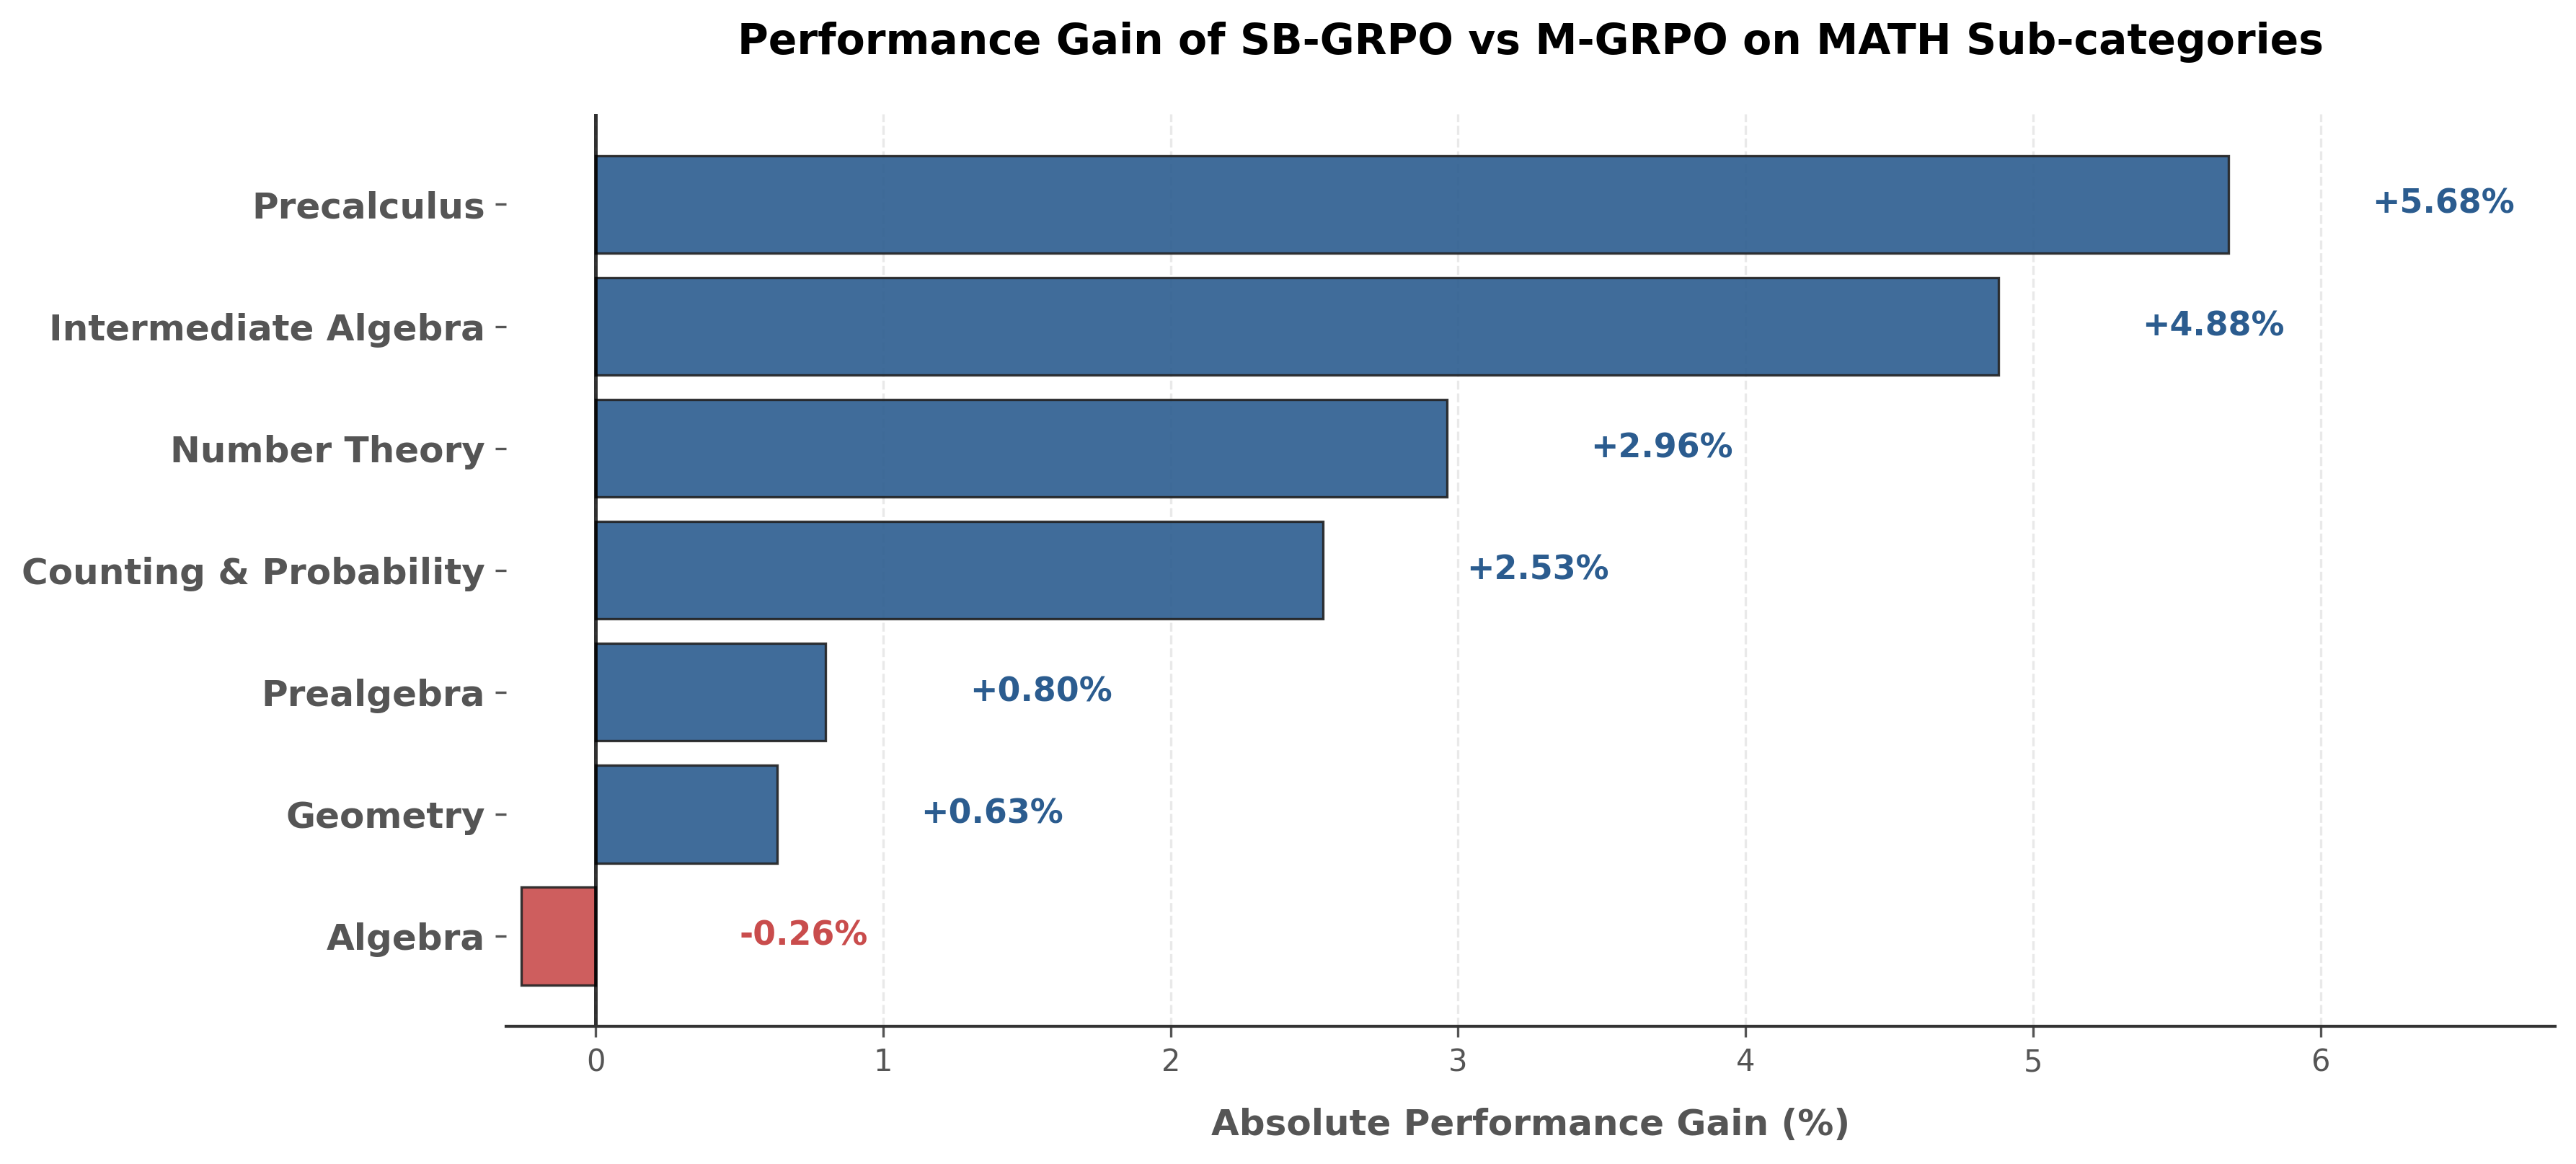
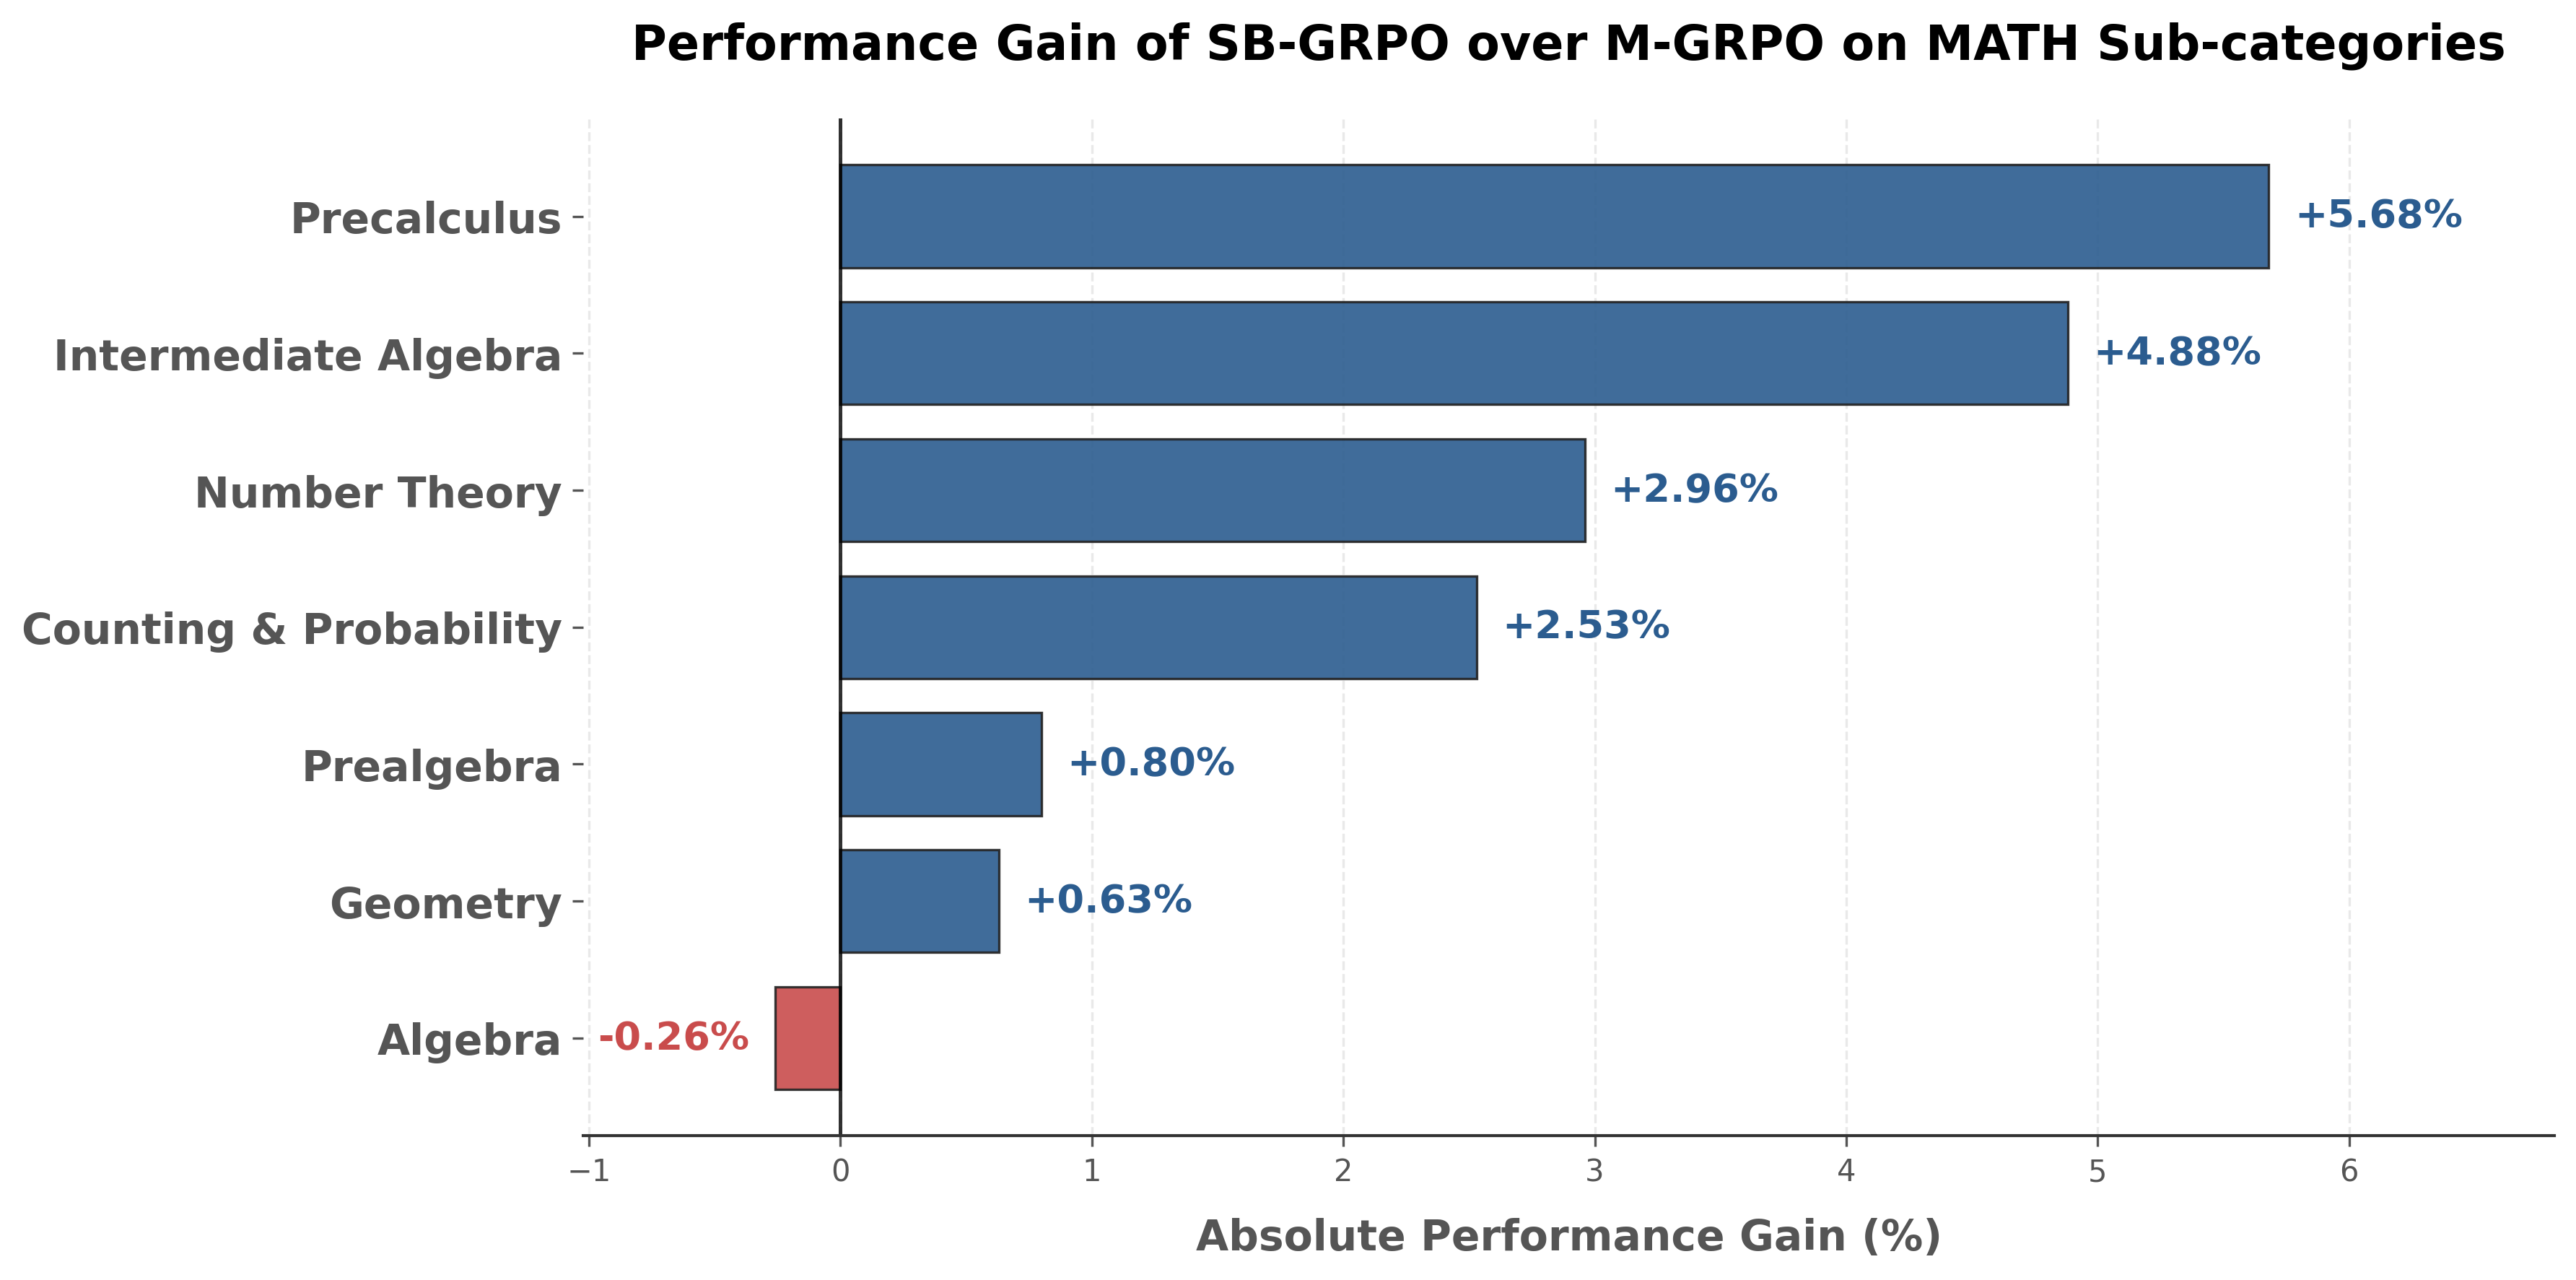
feat: add MATH performance delta visualization script and update research paper documents

Changed region(s): [[0.0, 0.1239, 0.9952, 0.8984], [0.2488, 0.0, 0.9641, 0.062], [0.4665, 0.9294, 0.7464, 0.9913]]

diff --git a/docs/generate_math_delta_chart.py b/docs/generate_math_delta_chart.py
@@ -2,6 +2,8 @@ import matplotlib.pyplot as plt
 import numpy as np
 import os
 
+# cd docs && python generate_math_delta_chart.py
+
 categories = [
     "Algebra", "Counting & Probability", "Geometry",
     "Intermediate Algebra", "Number Theory", "Prealgebra", "Precalculus"
@@ -19,7 +21,7 @@ def generate_chart(base_name, base_data, title, output_png):
     sorted_deltas = [x[1] for x in sorted_pairs]
     
     plt.style.use("ggplot")
-    fig, ax = plt.subplots(figsize=(12, 5.5))
+    fig, ax = plt.subplots(figsize=(12, 6.0))
     ax.set_facecolor("white")
     fig.patch.set_facecolor("white")
     
@@ -29,42 +31,43 @@ def generate_chart(base_name, base_data, title, output_png):
     
     y_pos = np.arange(len(sorted_cats))
     bars = ax.barh(
-        y_pos, sorted_deltas, color=colors, height=0.8, alpha=0.9,
+        y_pos, sorted_deltas, color=colors, height=0.75, alpha=0.9,
         edgecolor="#222222", linewidth=0.8
     )
     
+    max_x = max(sorted_deltas) * 1.2
+    min_x = -0.15 * max_x
+    
     for i, (bar, delta) in enumerate(zip(bars, sorted_deltas)):
         if delta >= 0:
-            offset = max(1.0, max(sorted_deltas)*0.05) * 0.5
+            offset = max_x * 0.015
             ha = "left"
             x_pos = delta + offset
         else:
-            offset = max(1.0, max(sorted_deltas)*0.05) * 0.5
-            ha = "left"
-            x_pos = offset  # Place text on the right side of the y-axis for negative values
+            offset = max_x * 0.015
+            ha = "right"
+            x_pos = delta - offset
             
         color = pos_color if delta > 0 else neg_color
         sign = "+" if delta > 0 else ""
         ax.text(
             x_pos, bar.get_y() + bar.get_height() / 2,
             f"{sign}{delta:.2f}%", va="center", ha=ha,
-            fontsize=11, fontweight="bold", color=color,
+            fontsize=13, fontweight="bold", color=color,
         )
         
     ax.axvline(0, color="black", linewidth=1.2, alpha=0.8)
     
     ax.set_yticks(y_pos)
-    ax.set_yticklabels(sorted_cats, fontsize=12, fontweight="bold")
-    ax.set_xlabel("Absolute Performance Gain (%)", fontsize=12, fontweight="bold", labelpad=10)
-    ax.set_title(title, fontsize=14, fontweight="bold", pad=20)
+    ax.set_yticklabels(sorted_cats, fontsize=14, fontweight="bold")
+    ax.set_xlabel("Absolute Performance Gain (%)", fontsize=14, fontweight="bold", labelpad=10)
+    ax.set_title(title, fontsize=16, fontweight="bold", pad=20)
     
     ax.spines["top"].set_visible(False)
     ax.spines["right"].set_visible(False)
     ax.spines["left"].set_visible(False)
     ax.spines["bottom"].set_color("#333333")
     
-    min_x = min(0, min(sorted_deltas) * 1.2)
-    max_x = max(sorted_deltas) * 1.2
     ax.set_xlim(min_x, max_x)
     
     ax.grid(axis="x", color="#e0e0e0", linestyle="--", alpha=0.7)
@@ -76,5 +79,5 @@ def generate_chart(base_name, base_data, title, output_png):
     print(f"Generated: {output_png}")
 
 output_dir = r"d:\Projects\M-SB-GRPO\paper"
-generate_chart("M-GRPO", m_grpo, "Performance Gain of SB-GRPO vs M-GRPO on MATH Sub-categories", os.path.join(output_dir, "math_delta_chart_mgrpo.png"))
-generate_chart("Vanilla GRPO", vanilla, "Performance Gain of SB-GRPO vs Vanilla GRPO on MATH Sub-categories", os.path.join(output_dir, "math_delta_chart_vanilla.png"))
+generate_chart("M-GRPO", m_grpo, "Performance Gain of SB-GRPO over M-GRPO on MATH Sub-categories", os.path.join(output_dir, "math_delta_chart_mgrpo.png"))
+generate_chart("Vanilla GRPO", vanilla, "Performance Gain of SB-GRPO over Vanilla GRPO on MATH Sub-categories", os.path.join(output_dir, "math_delta_chart_vanilla.png"))